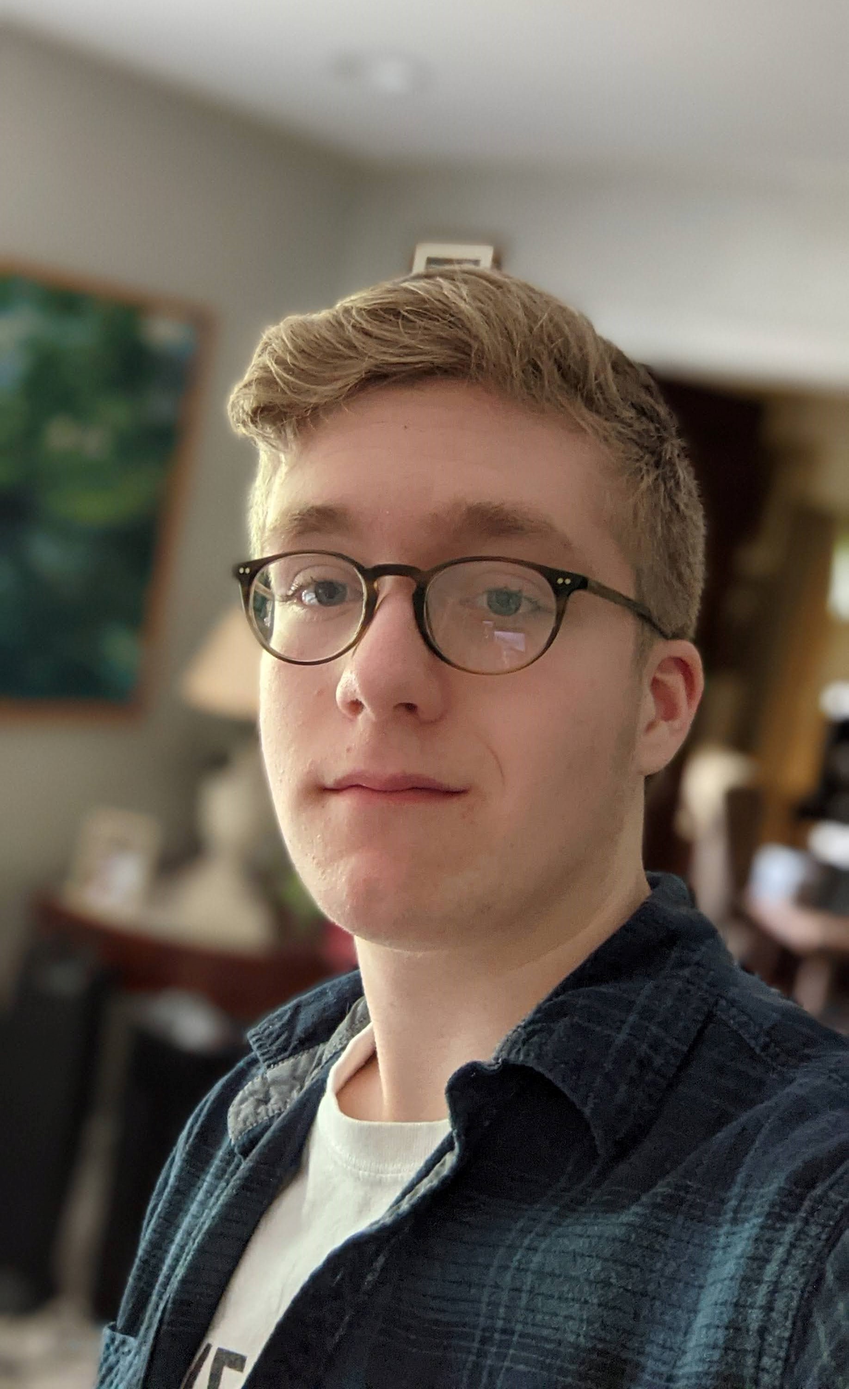
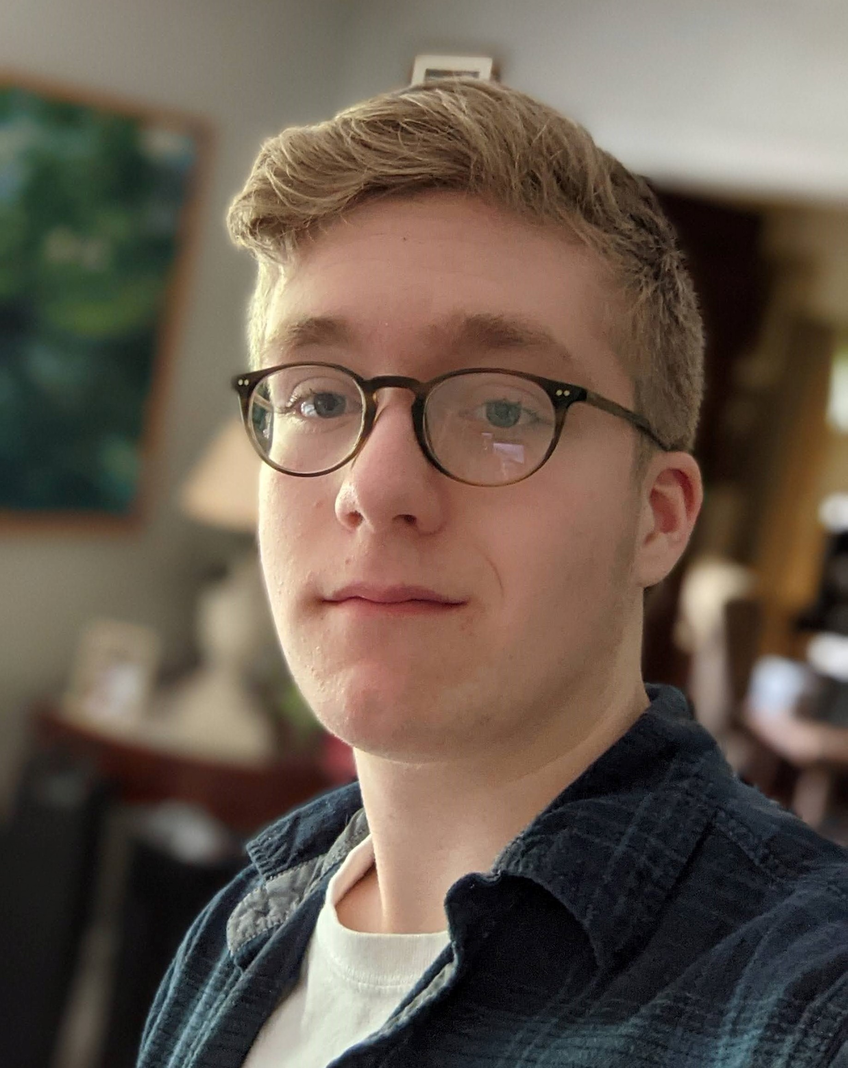
fixed meet the team

diff --git a/assets/css/main.css b/assets/css/main.css
@@ -118,16 +118,6 @@ input, select, textarea {
 		width: 20px;
 	}
 
-	/*#will{
-		width: 45% !important;
-		flex-grow: 1 !important;
-	}
-
-	#james{
-		width: 50% !important;
-		flex-grow: 1 !important;
-	}*/
-
 	.container{
 		display: flex;
 		width: 100%;
@@ -144,19 +134,21 @@ input, select, textarea {
 	}
 
 	#will{
-		background: url(../images/will.jpg);
+		background: url(../../images/will.jpg);
 		background-repeat: no-repeat;
-  		background-size: cover;
+  		background-size: contain;
   		overflow: hidden;
   		text-decoration: none;
+		flex-grow: 1;
 	}
 
 	#james{
-		background: url(../images/james.jpg);
+		background: url(../../images/james.jpg);
 		background-repeat: no-repeat;
-  		background-size: cover;
+		background-size: contain;
   		overflow: hidden;
   		text-decoration: none;
+		flex-grow: 1;
 	}
 
 	.headshot:hover .text {

diff --git a/index.html b/index.html
@@ -71,11 +71,10 @@
 						</header>
 						<div class="content">
 								<div class="container">
-									<div class="headshot" id="james" img src="images/james.jpg">
+									<div class="headshot" id="james" img src="../../images/james.jpg">
 										<span class="text">James Madonia, lead design and marketer</span>
 									</div>
-									<div>
-										<img  class="headshot" id="will" src="images/will2.jpg" alt="Will Madonia, head financial advisor">
+									<div class="headshot" id="will" img src="../../images/will.jpg">
 										<span class="text">Will Madonia, head financial advisor</span>
 									</div>
 								</div>
